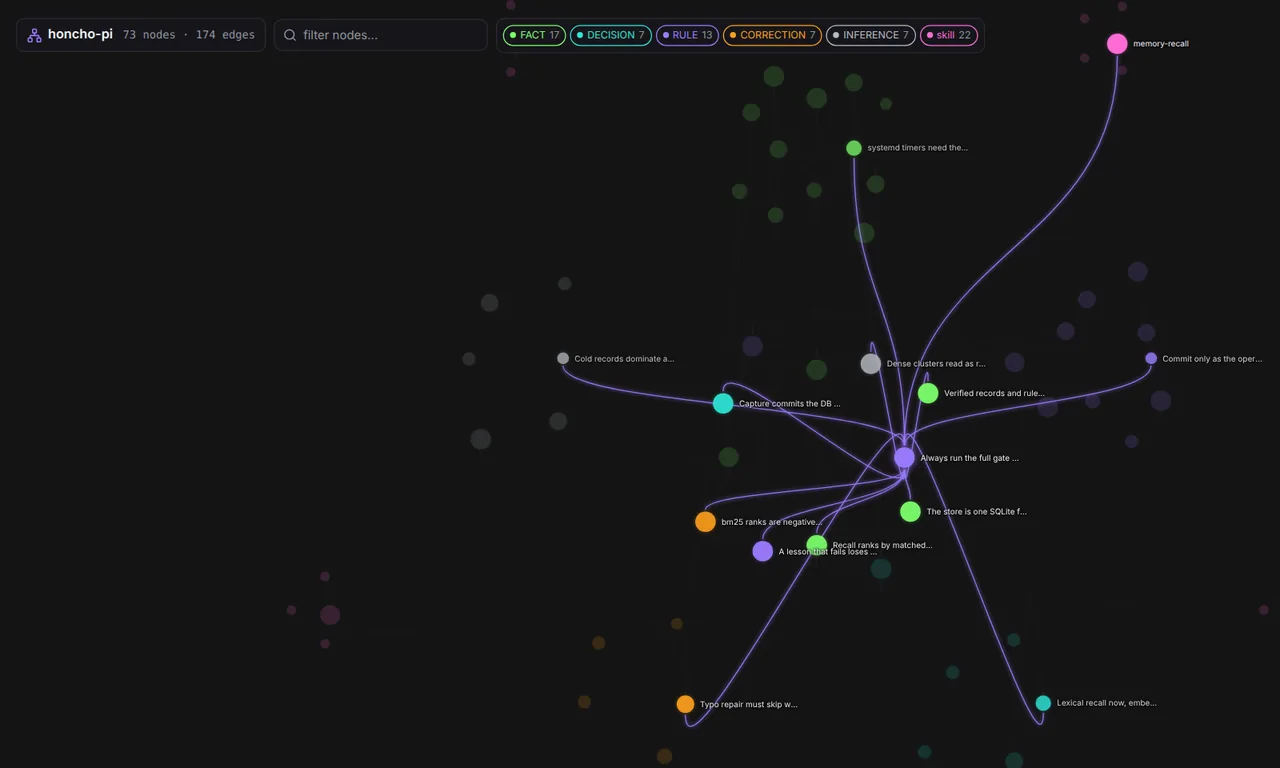
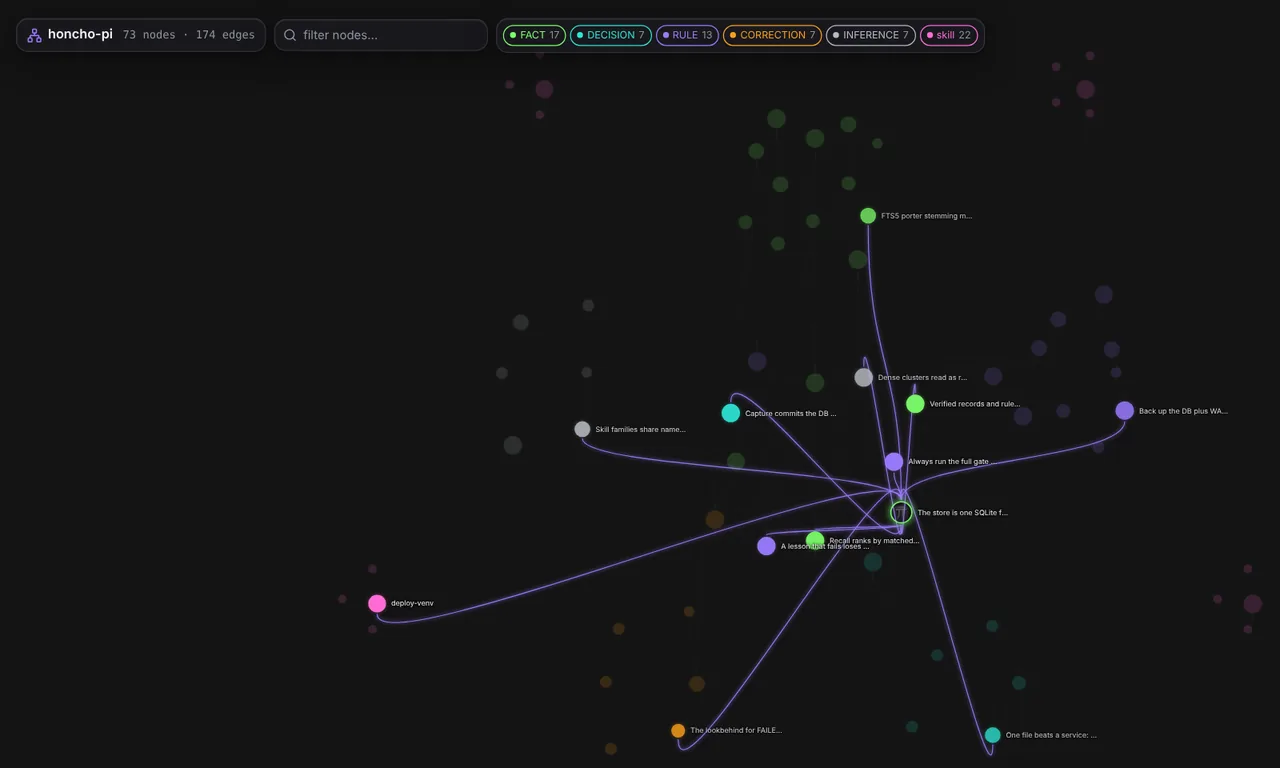
feat(web): liquid glass UI, macOS-style floating layers
- Glass system in index.css: translucent surfaces with blur(20-24px)
  + saturate(1.6), hairline borders, inset top highlight, layered
  shadow. Applied to toolbar pills, detail/settings panels, dashboard
  cards, zoom controls and minimap; the canvas itself stays matte.
  Light theme gets white-glass variants.
- Ambient depth: two faint type-colored radial fields behind the
  canvas give the glass something to refract and the universe a
  sense of space. Static, dim, nodes stay foreground.
- Panels rounded-2xl, dashboard sections become floating cards,
  stat strip is one glass bar.
- README: shields badges (license/python/stdlib/local-first) in the
  house palette, hero caption, blank lines fixed so HTML blocks
  render correctly; duplicate hover image removed. Screenshots
  regenerated from the demo universe with the glass UI.
- Repo About shortened to one line.

diff --git a/web/src/index.css b/web/src/index.css
@@ -21,6 +21,14 @@
   --inference: #b6bac0;
   --skill: #ff6bd6;
   --note: #4da3ff;
+  --mask: rgba(13, 13, 16, 0.7);
+  /* Liquid glass: translucent floating layers over the canvas, macOS style.
+     Only toolbar, panels, controls and minimap use it; the canvas stays matte. */
+  --glass: rgba(28, 28, 36, 0.55);
+  --glass-strong: rgba(28, 28, 36, 0.78);
+  --glass-border: rgba(255, 255, 255, 0.12);
+  --glass-highlight: rgba(255, 255, 255, 0.08);
+  --glass-shadow: 0 8px 32px rgba(0, 0, 0, 0.45), 0 2px 8px rgba(0, 0, 0, 0.3);
 }
 
 :root[data-theme="light"] {
@@ -41,6 +49,11 @@
   --inference: #475569;
   --skill: #be185d;
   --note: #1d4ed8;
+  --glass: rgba(255, 255, 255, 0.6);
+  --glass-strong: rgba(255, 255, 255, 0.82);
+  --glass-border: rgba(15, 23, 42, 0.1);
+  --glass-highlight: rgba(255, 255, 255, 0.7);
+  --glass-shadow: 0 8px 32px rgba(15, 23, 42, 0.12), 0 2px 8px rgba(15, 23, 42, 0.08);
 }
 
 html, body, #root {
@@ -53,8 +66,47 @@ html, body, #root {
   transition: background 0.2s ease, color 0.2s ease;
 }
 
+/* Ambient depth: two faint type-colored fields behind the canvas, like the
+   mindcorpus brain glow. Static, matte, and dim enough that nodes stay the
+   foreground; it also gives the glass layers something to refract. */
+body::before {
+  content: "";
+  position: fixed;
+  inset: 0;
+  pointer-events: none;
+  z-index: 0;
+  background:
+    radial-gradient(700px 480px at 78% 12%, color-mix(in srgb, var(--rule) 9%, transparent), transparent 70%),
+    radial-gradient(820px 560px at 12% 88%, color-mix(in srgb, var(--decision) 7%, transparent), transparent 70%);
+}
+
+#root {
+  position: relative;
+  z-index: 1;
+  background: transparent;
+}
+
 .font-meta {
   font-family: 'IBM Plex Mono', ui-monospace, Menlo, monospace;
+}
+
+/* The glass layer: blur + saturation lift, hairline border, top highlight.
+   backdrop-filter needs the element to float over content, which all four
+   consumers do. */
+.glass {
+  background: var(--glass);
+  -webkit-backdrop-filter: blur(20px) saturate(1.6);
+  backdrop-filter: blur(20px) saturate(1.6);
+  border: 1px solid var(--glass-border);
+  box-shadow: var(--glass-shadow), inset 0 1px 0 var(--glass-highlight);
+}
+
+.glass-strong {
+  background: var(--glass-strong);
+  -webkit-backdrop-filter: blur(24px) saturate(1.6);
+  backdrop-filter: blur(24px) saturate(1.6);
+  border: 1px solid var(--glass-border);
+  box-shadow: var(--glass-shadow), inset 0 1px 0 var(--glass-highlight);
 }
 
 mark {
@@ -65,20 +117,31 @@ mark {
 }
 
 .react-flow__controls {
-  border-radius: 8px;
+  border-radius: 12px;
   overflow: hidden;
-  border: 1px solid var(--border);
+  background: var(--glass);
+  -webkit-backdrop-filter: blur(20px) saturate(1.6);
+  backdrop-filter: blur(20px) saturate(1.6);
+  border: 1px solid var(--glass-border);
+  box-shadow: var(--glass-shadow), inset 0 1px 0 var(--glass-highlight);
 }
 .react-flow__controls button {
-  background: var(--surface);
-  border-bottom: 1px solid var(--border);
+  background: transparent;
+  border-bottom: 1px solid var(--glass-border);
   color: var(--text);
 }
 .react-flow__controls button:hover {
-  background: var(--surface-2);
+  background: var(--glass-highlight);
 }
 .react-flow__controls button svg {
   fill: var(--text);
+}
+
+.react-flow__minimap {
+  border-radius: 12px;
+  overflow: hidden;
+  border: 1px solid var(--glass-border);
+  box-shadow: var(--glass-shadow);
 }
 
 /* Label halo: text stays readable over edges without a solid chip. */

diff --git a/web/src/components/Dashboard.jsx b/web/src/components/Dashboard.jsx
@@ -66,7 +66,7 @@ export function Dashboard() {
   return (
     <div className="h-full overflow-y-auto px-6 py-5 pt-16">
       <div className="max-w-4xl mx-auto space-y-6">
-        <div className="flex flex-wrap gap-x-8 gap-y-2 font-meta text-[12px] text-[var(--text-muted)]">
+        <div className="glass rounded-2xl px-5 py-3 flex flex-wrap gap-x-8 gap-y-2 font-meta text-[12px] text-[var(--text-muted)]">
           <span><b className="text-[var(--text)] text-[16px]">{stats.store.total}</b> records</span>
           <span><b className="text-[var(--text)] text-[16px]">{stats.store.verified}</b> verified</span>
           <span><b className="text-[var(--text)] text-[16px]">{stats.auto_captured}</b> auto-captured</span>
@@ -77,14 +77,14 @@ export function Dashboard() {
         </div>
 
         <div className="grid md:grid-cols-2 gap-6">
-          <section aria-label="Records by type" className="space-y-1.5">
+          <section aria-label="Records by type" className="glass rounded-2xl p-4 space-y-1.5">
             <h2 className="text-[11px] uppercase tracking-wide text-[var(--text-muted)] mb-2">Records by type</h2>
             {typeEntries.map(([t, v]) => (
               <Bar key={t} label={t} value={v} max={typeMax} color={typeColor(t, theme)} />
             ))}
           </section>
 
-          <section aria-label="Confidence distribution" className="space-y-1.5">
+          <section aria-label="Confidence distribution" className="glass rounded-2xl p-4 space-y-1.5">
             <h2 className="text-[11px] uppercase tracking-wide text-[var(--text-muted)] mb-2">Confidence</h2>
             <Bar label="< 0.40 (cold)" value={conf.low} max={confTotal} color="var(--correction)" />
             <Bar label="0.40 - 0.69" value={conf.mid} max={confTotal} color="var(--inference)" />
@@ -95,14 +95,14 @@ export function Dashboard() {
             </p>
           </section>
 
-          <section aria-label="Capture activity" className="space-y-1.5">
+          <section aria-label="Capture activity" className="glass rounded-2xl p-4 space-y-1.5">
             <h2 className="text-[11px] uppercase tracking-wide text-[var(--text-muted)] mb-2">New records per day (last 14 active days)</h2>
             {stats.activity.map((a) => (
               <Bar key={a.day} label={a.day.slice(5)} value={a.count} max={actMax} color="var(--accent)" />
             ))}
           </section>
 
-          <section aria-label="Most connected nodes">
+          <section aria-label="Most connected nodes" className="glass rounded-2xl p-4">
             <h2 className="text-[11px] uppercase tracking-wide text-[var(--text-muted)] mb-2">Most connected</h2>
             <div className="space-y-1">
               {g.top_connected.map((n) => (

diff --git a/web/src/components/Toolbar.jsx b/web/src/components/Toolbar.jsx
@@ -21,7 +21,7 @@ function SettingsPanel() {
     <div
       role="dialog"
       aria-label="Graph settings"
-      className="absolute top-16 right-4 w-72 bg-[var(--surface)] border border-[var(--border)] rounded-lg shadow-2xl z-20 p-3 pointer-events-auto space-y-4"
+      className="absolute top-16 right-4 w-72 glass-strong rounded-2xl z-20 p-3 pointer-events-auto space-y-4"
     >
       <div className="flex items-center justify-between">
         <span className="text-[12px] font-semibold text-[var(--text-muted)]">Graph settings</span>
@@ -131,14 +131,14 @@ export function Toolbar() {
 
   return (
     <div className="absolute top-4 left-4 right-4 flex items-center gap-2 z-10 pointer-events-none flex-wrap">
-      <div className="flex items-center gap-1.5 bg-[var(--surface)] border border-[var(--border)] rounded-lg px-2.5 py-1.5 pointer-events-auto">
+      <div className="flex items-center gap-1.5 glass rounded-xl px-2.5 py-1.5 pointer-events-auto">
         <Network size={15} className="text-[var(--accent)]" />
         <span className="text-[13px] font-semibold">honcho-pi</span>
         <span className="text-[11px] text-[var(--text-muted)] ml-1 font-meta">
           {nodes.length} nodes · {edges.length} edges
         </span>
       </div>
-      <div className="flex items-center gap-1.5 bg-[var(--surface)] border border-[var(--border)] rounded-lg px-2 py-1.5 pointer-events-auto">
+      <div className="flex items-center gap-1.5 glass rounded-xl px-2 py-1.5 pointer-events-auto">
         <Search size={14} className="text-[var(--text-muted)]" />
         <input
           data-testid="search-input"
@@ -150,7 +150,7 @@ export function Toolbar() {
         />
       </div>
       <div
-        className="flex items-center gap-1 bg-[var(--surface)] border border-[var(--border)] rounded-lg px-1.5 py-1.5 pointer-events-auto"
+        className="flex items-center gap-1 glass rounded-xl px-1.5 py-1.5 pointer-events-auto"
         role="group"
         aria-label="Filter by record type"
       >
@@ -179,7 +179,7 @@ export function Toolbar() {
         })}
       </div>
       <div className="flex-1" />
-      <div className="flex items-center gap-1 bg-[var(--surface)] border border-[var(--border)] rounded-lg p-1 pointer-events-auto">
+      <div className="flex items-center gap-1 glass rounded-xl p-1 pointer-events-auto">
         <button
           data-testid="toggle-dashboard"
           onClick={() => setView(view === 'dashboard' ? 'graph' : 'dashboard')}

diff --git a/web/src/components/DetailPanel.jsx b/web/src/components/DetailPanel.jsx
@@ -115,7 +115,7 @@ export function DetailPanel() {
     <div
       role="dialog"
       aria-label={`Record details: ${node.data.label || node.id}`}
-      className="absolute top-16 right-4 w-80 max-h-[calc(100%-5rem)] bg-[var(--surface)] border border-[var(--border)] rounded-lg shadow-2xl z-20 overflow-hidden flex flex-col"
+      className="absolute top-16 right-4 w-80 max-h-[calc(100%-5rem)] glass-strong rounded-2xl z-20 overflow-hidden flex flex-col"
     >
       <div className="flex items-center justify-between px-3 py-2 border-b border-[var(--border)] shrink-0">
         <span className="text-[12px] font-semibold text-[var(--text-muted)]">Record details</span>

diff --git a/web/src/App.jsx b/web/src/App.jsx
@@ -128,7 +128,7 @@ export default function App() {
           nodeColor={(n) => typeColor(n.data?.type, theme, n.data?.color)}
           nodeBorderRadius={6}
           maskColor="var(--mask)"
-          style={{ width: 160, height: 110, background: 'var(--surface)' }}
+          style={{ width: 160, height: 110, background: 'var(--glass)' }}
         />
       </ReactFlow>
       {visibleNodes.length === 0 && (

diff --git a/README.md b/README.md
@@ -9,15 +9,27 @@
 # honcho-pi
 
 ### Your coding agent forgets everything. This fixes that.
-honcho-pi gives the agent a memory that behaves like memory: lessons that hold get stronger, lessons that
-fail fade, and everything carries the evidence behind it.
 
 One SQLite file that remembers what worked, what failed, and why.
 Local-first. No server, no API key, no embeddings. Nothing leaves your machine.
+
 [Quick start](#quick-start) | [Memory universe](#the-memory-universe)
 [How it works](#how-it-works) | [MCP](#connect-your-agent)
+
+<p>
+  <a href="LICENSE.md"><img alt="License: MIT" height="20"
+    src="https://img.shields.io/badge/license-MIT-9b7bff.svg?style=flat-square"></a>
+  <img alt="Python 3.10+" src="https://img.shields.io/badge/python-3.10+-2ee6d6.svg?style=flat-square" height="20">
+  <img alt="stdlib only" height="20"
+    src="https://img.shields.io/badge/dependencies-stdlib_only-7cff6b.svg?style=flat-square">
+  <img alt="local first" height="20"
+    src="https://img.shields.io/badge/local--first-nothing_leaves_your_machine-ff6bd6.svg?style=flat-square">
+</p>
+
 </div>
+
 ---
+
 <div align="center">
 <img
   src="assets/screenshots/universe-hero.webp"
@@ -26,11 +38,17 @@ Local-first. No server, no API key, no embeddings. Nothing leaves your machine.
   width="100%"
 />
 </div>
+
+<p align="center"><i>The memory universe: every lesson, decision, and skill your agent has learned, connected.</i></p>
+
 ## The problem
+
 Every session, your agent starts from zero. It re-learns the same build command, repeats the same wrong
 assumption, and rediscovers the same fix it found last week. You end up being the memory.
+
 honcho-pi gives the agent a memory that behaves like memory: lessons that hold get stronger, lessons that
 fail fade, and everything carries the evidence behind it.
+
 ## Quick start
 
 ```bash
@@ -55,6 +73,7 @@ Works with Claude Code, Codex, Cursor, and any MCP client. The agent gets five t
 ```bash
 omp-memory overview
 ```
+
 <div align="center">
 <img
   src="assets/screenshots/universe-hover.webp"
@@ -62,10 +81,13 @@ omp-memory overview
   width="100%"
 />
 </div>
+
 Everything the agent remembers, on one canvas. Each color is a record type, each thread is a relationship.
 Hover a node and its connections light up. Double-click to zoom into its neighborhood. Drag nodes to
 arrange your own map; the layout is saved.
+
 **Click any node to open it:**
+
 <div align="center">
 <img
   src="assets/screenshots/detail-image.webp"
@@ -74,12 +96,15 @@ arrange your own map; the layout is saved.
   width="100%"
 />
 </div>
+
 - **Read the full record**: content, evidence, confidence, where it came from.
 - **Edit it**: fix a wrong lesson right there. The edit writes to the store as a logged correction,
   with evidence required. The agent sees the corrected version on its next recall.
 - **Attach images**: screenshots, diagrams, terminal output. The node becomes a thumbnail.
   Agents can attach images too, through the same API.
+
 **And a dashboard that answers one question: is the memory healthy?**
+
 <div align="center">
 <img
   src="assets/screenshots/dashboard.webp"
@@ -87,18 +112,12 @@ arrange your own map; the layout is saved.
   width="100%"
 />
 </div>
+
 Cold records decay toward forgetting; hot ones survive. If the cold bucket dominates, the store needs
 reinforcement, not more capture. The most-connected list shows the hubs your agent actually leans on.
 
 The screenshots above use generated demo data (`python3 web/scripts/demo-universe.py`), not anyone's
 real memory.
-<div align="center">
-<img
-  src="assets/screenshots/universe-hover.webp"
-  alt="Hovering a node lights up its threads and dims everything unrelated"
-  width="100%"
-/>
-</div>
 
 ## How it works
 
@@ -186,7 +205,7 @@ Updates: `npx honcho-pi@latest update` (keeps the database). Status: `npx honcho
 ## Development
 
 ```bash
-python -m pytest              # 384 tests, no network
+python -m pytest              # 385 tests, no network
 bash bin/clean-code.sh        # quality gate
 bash bin/web-deploy.sh        # build + deploy the web UI
 ```
